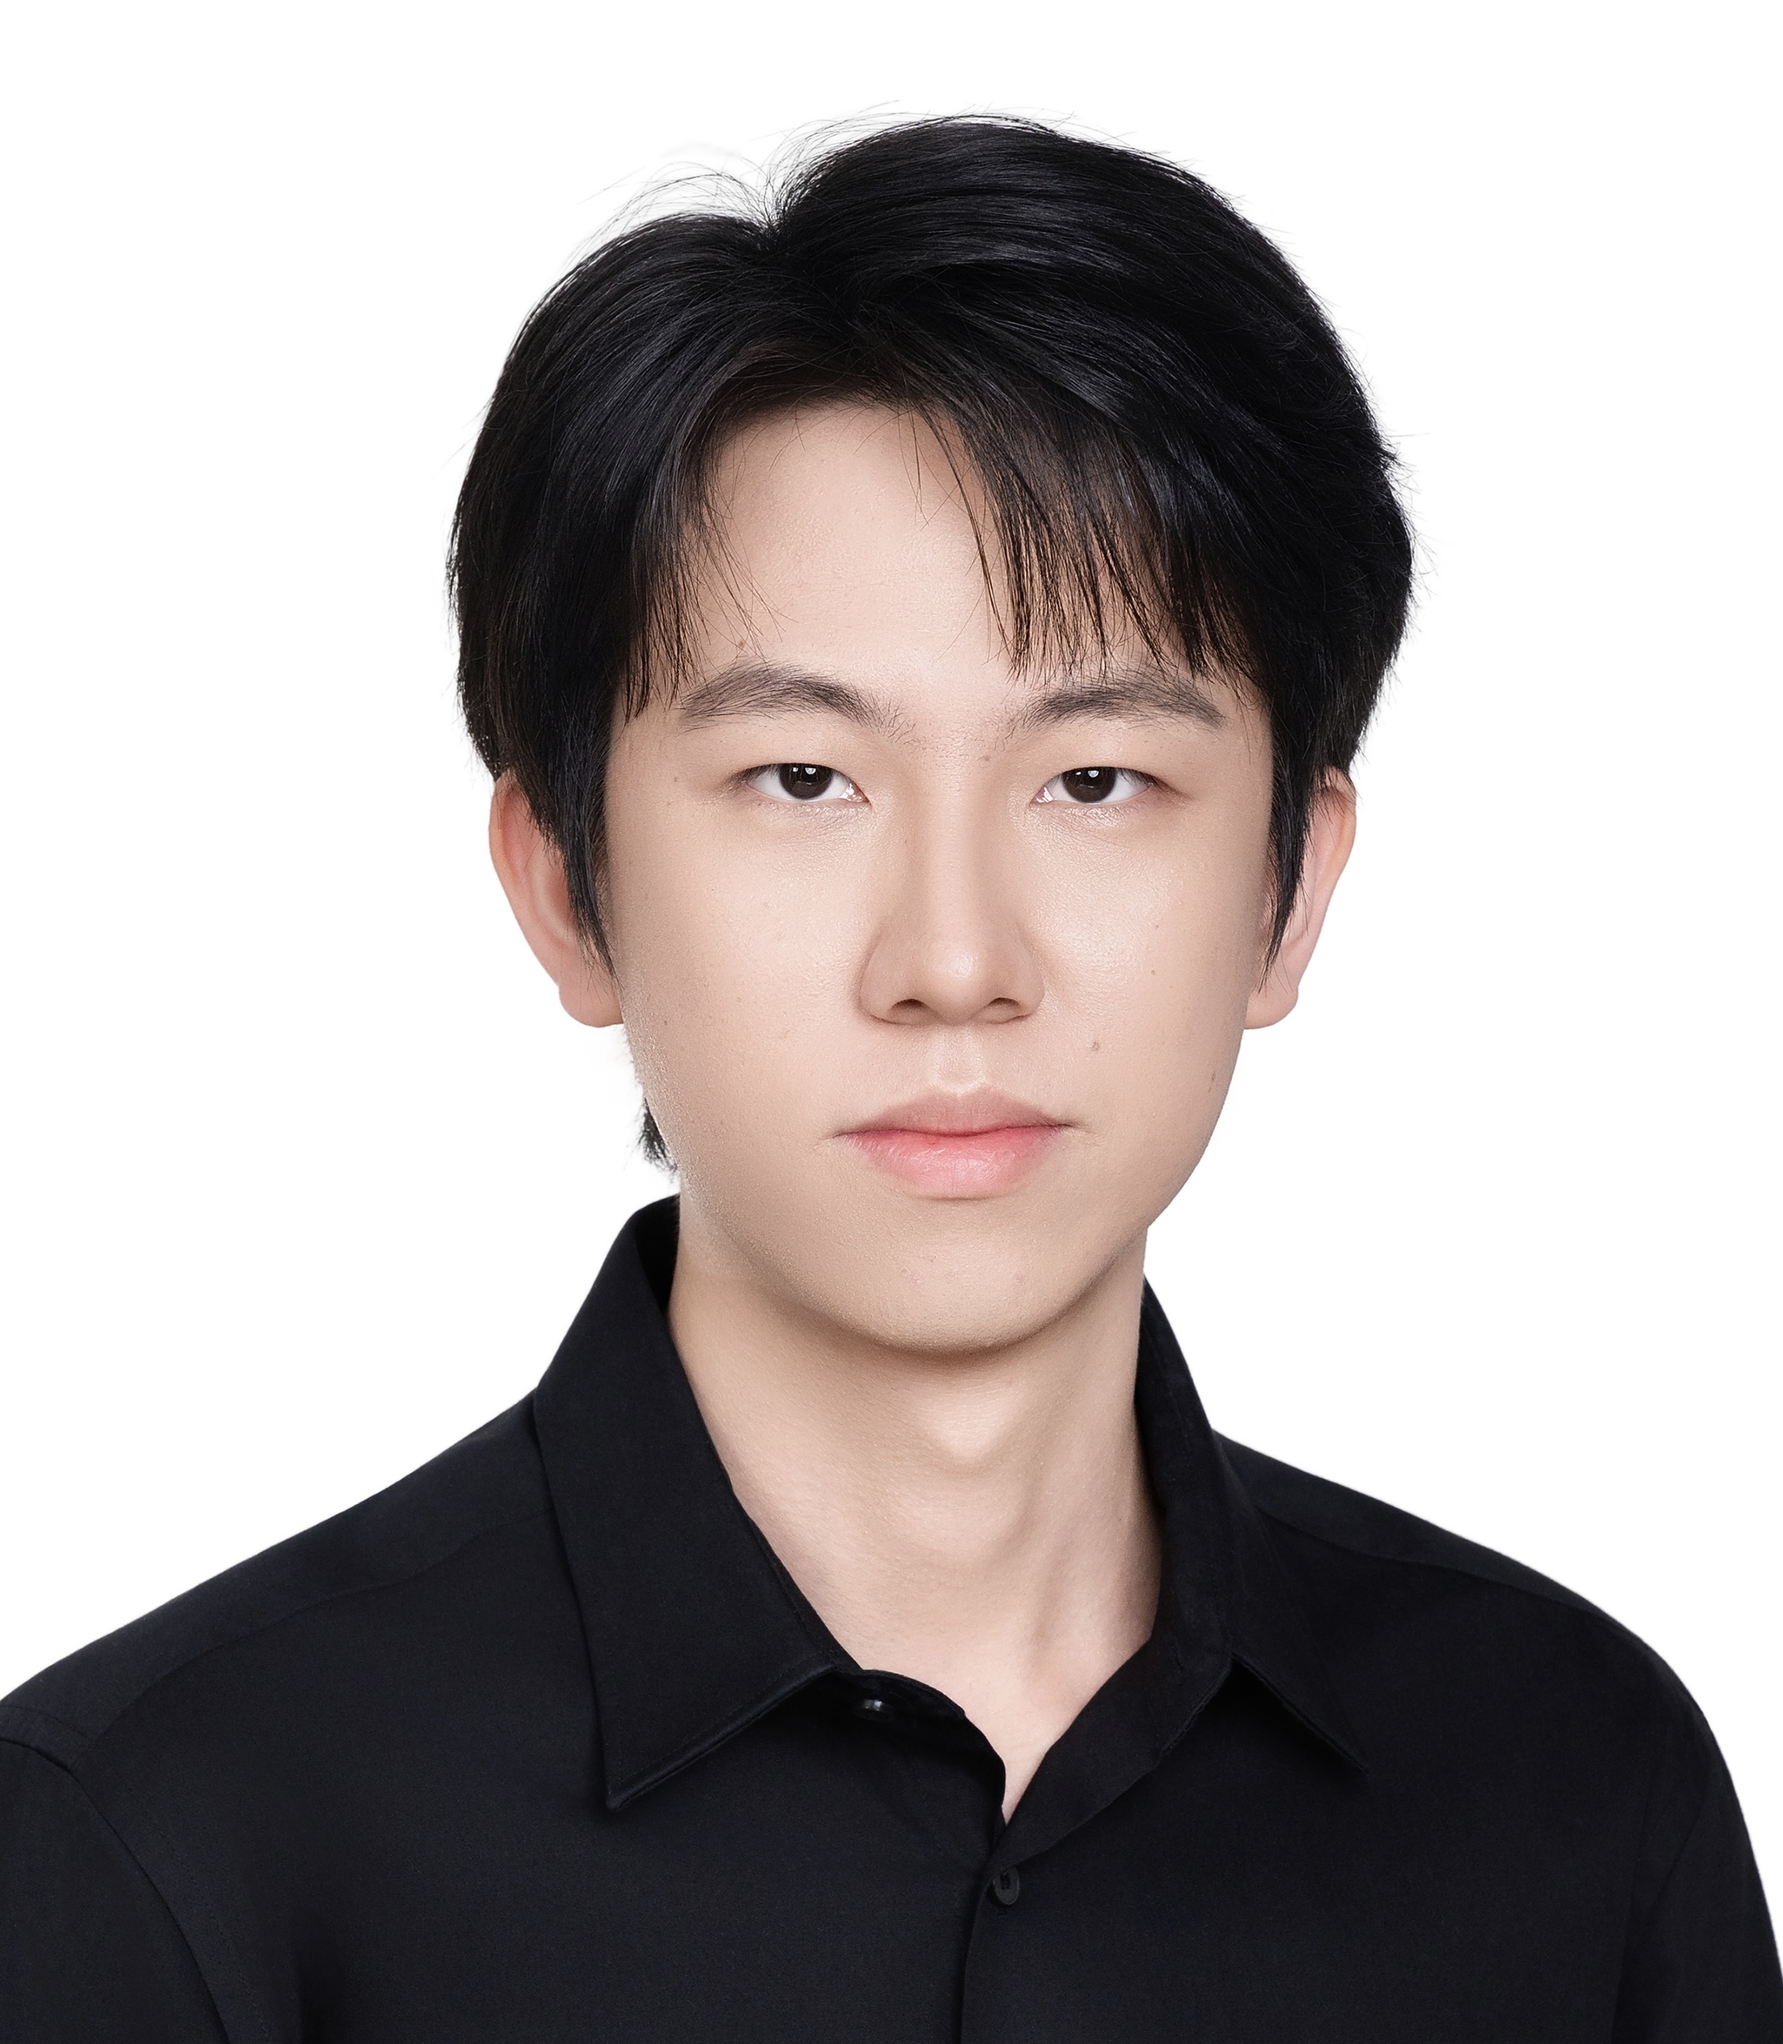
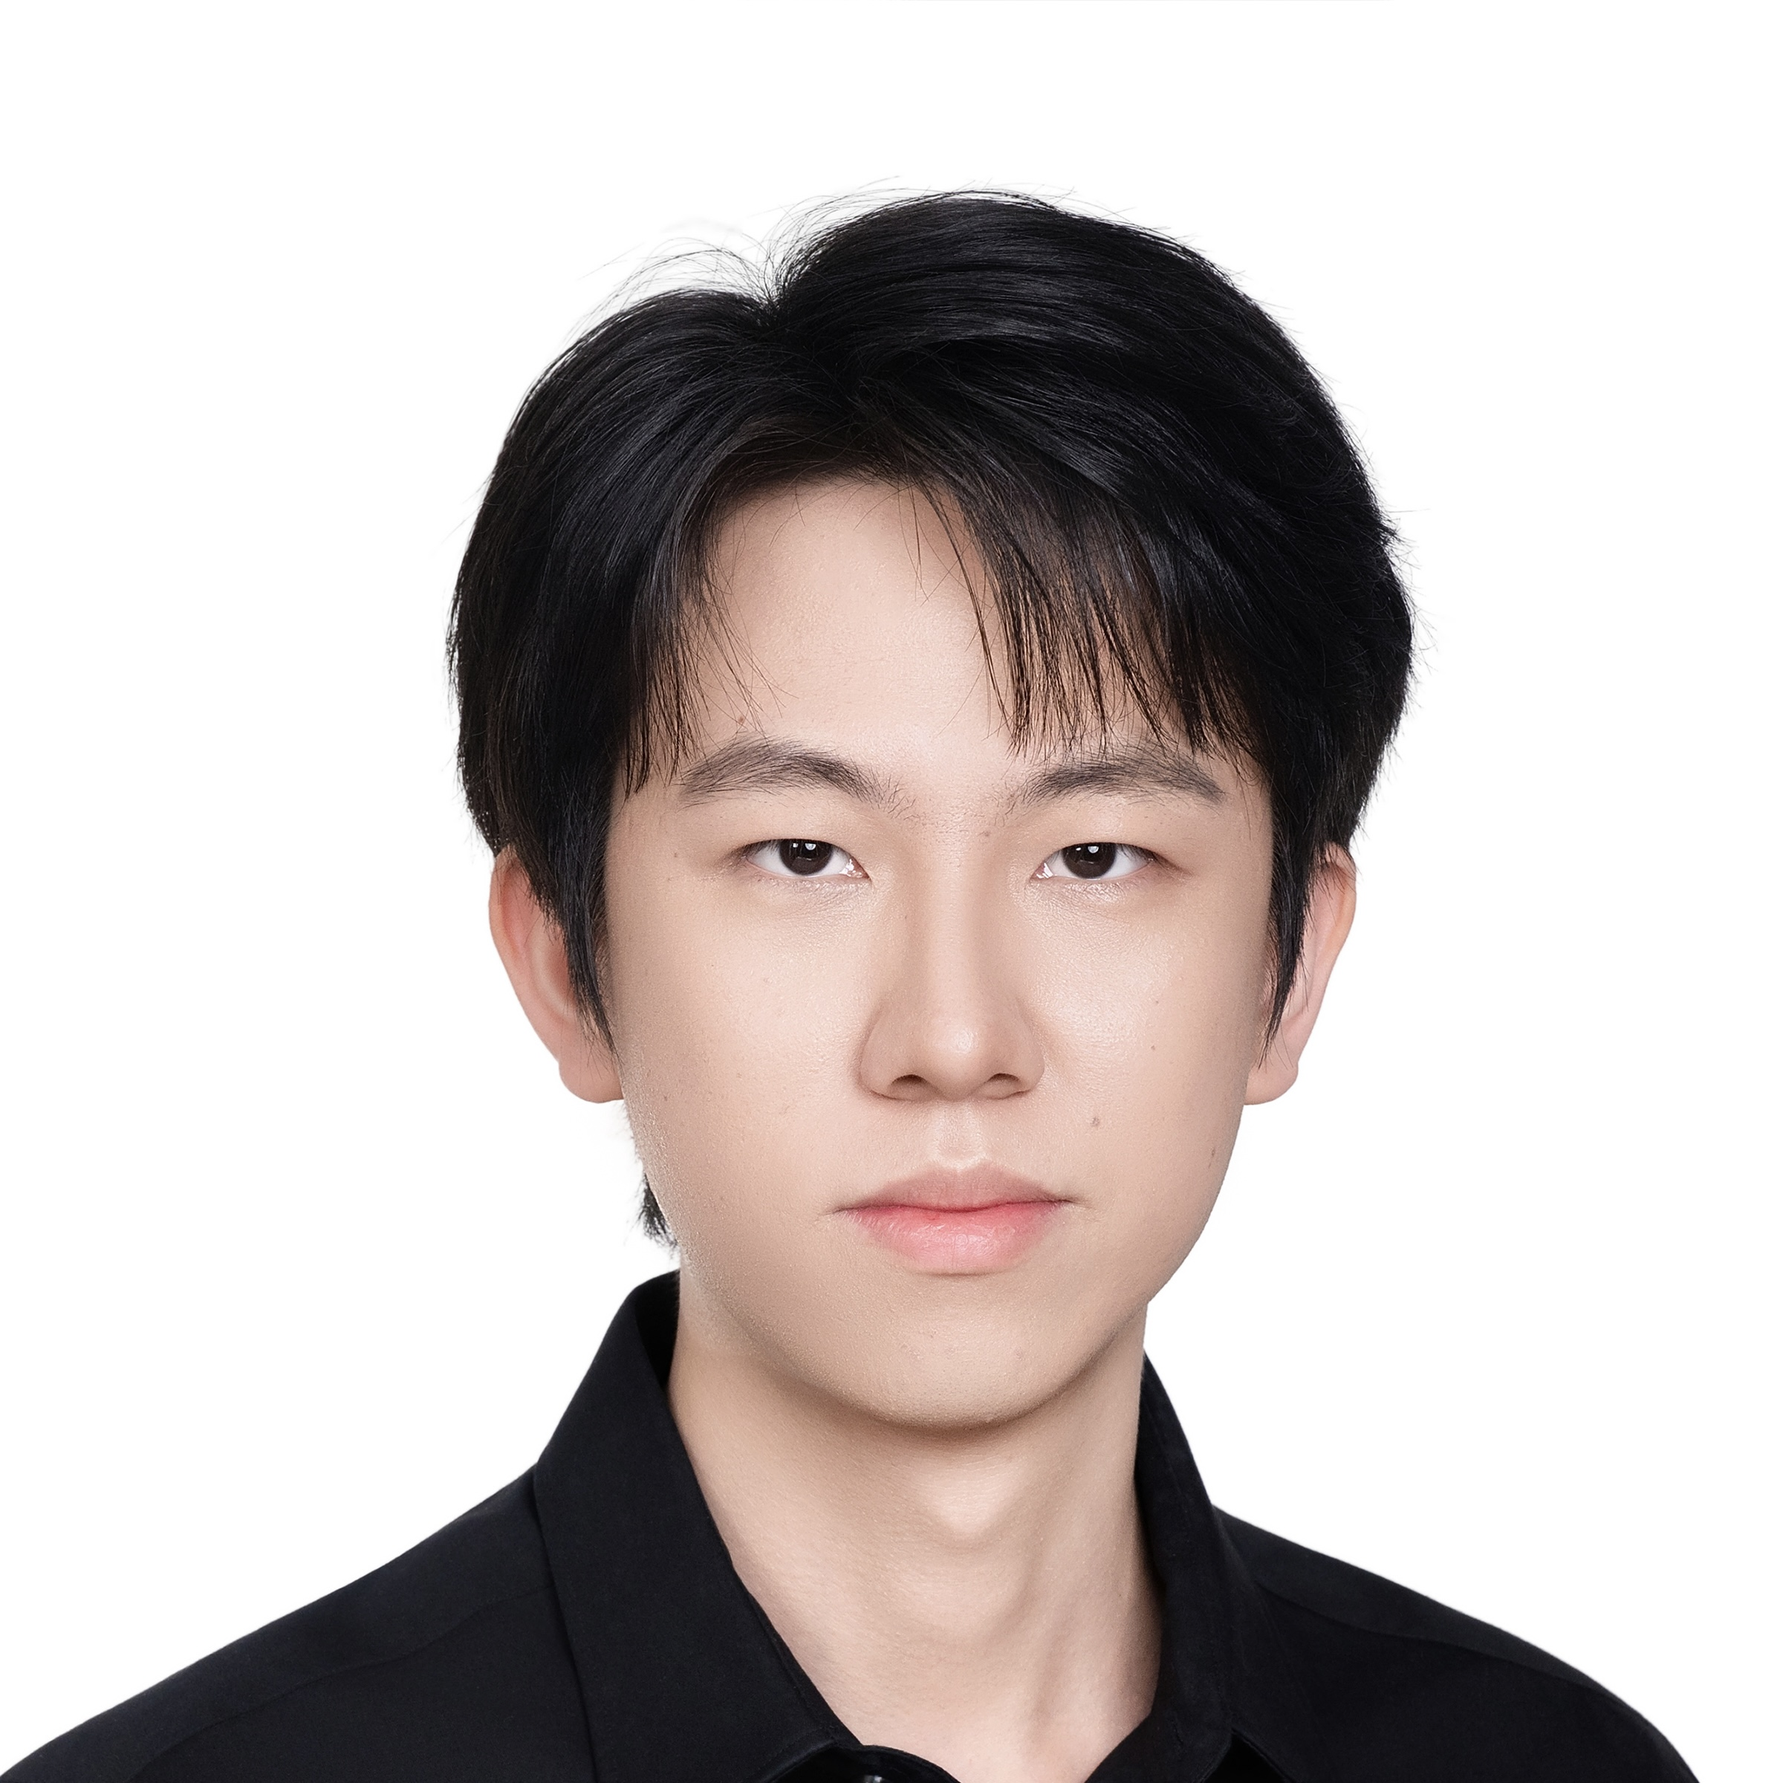
update msg

diff --git a/_pages/about.md b/_pages/about.md
@@ -37,6 +37,9 @@ During my undergraduate years, I was fortunate to work with
 [Prof. Auke Ijspeert](https://www.epfl.ch/labs/biorob/people/ijspeert/) at EPFL
 and [Prof. Hao Su](https://cseweb.ucsd.edu/~haosu/) at UCSD.
 
+<details markdown="1">
+<summary><strong>Research vision</strong></summary>
+
 My research journey began with classical 2D computer vision,
 where, as is well known, task-related numerical metrics are the primary criteria for evaluating models.
 However, I gradually realized that an improved metric does not always yield a "better" vision model in practice;
@@ -58,6 +61,10 @@ I want to uncover the fundamental reasons
 aiming to model these insights,
 and use them to guide the refinement or redesign of robotic systems.
 Consequently, my current research interest is focused on **interpretability** within robot learning. Of course, I remain committed to developing robot learning systems, but with a greater focus on interpretability.
+
+</details>
+
+Recently, I have been working on dexterous manipulation.
 
 <br>
 
